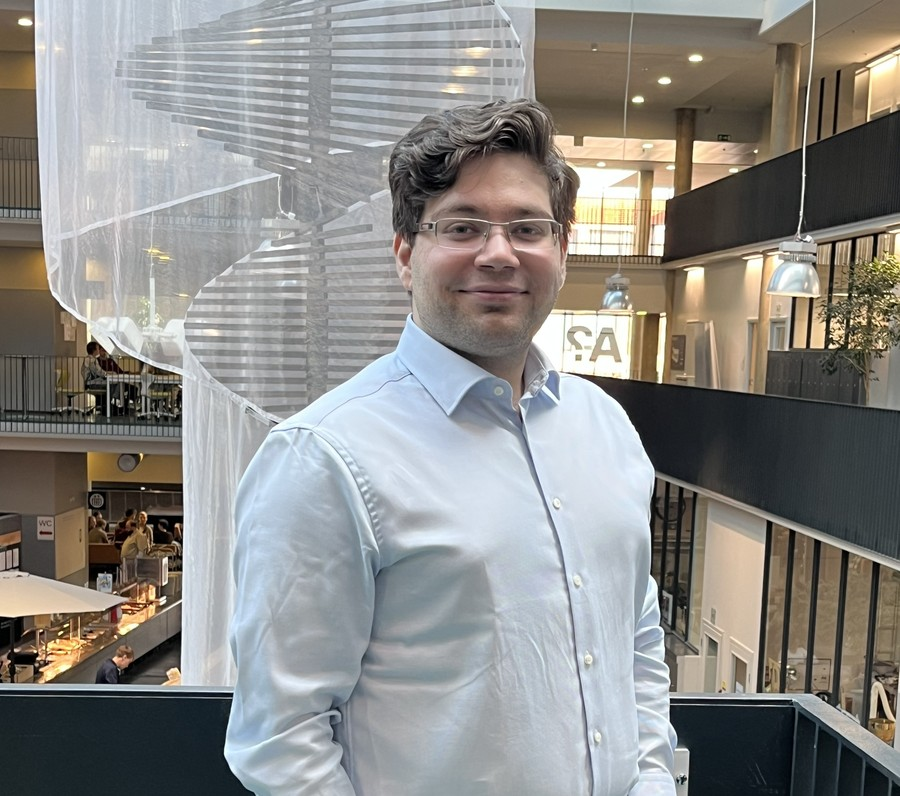
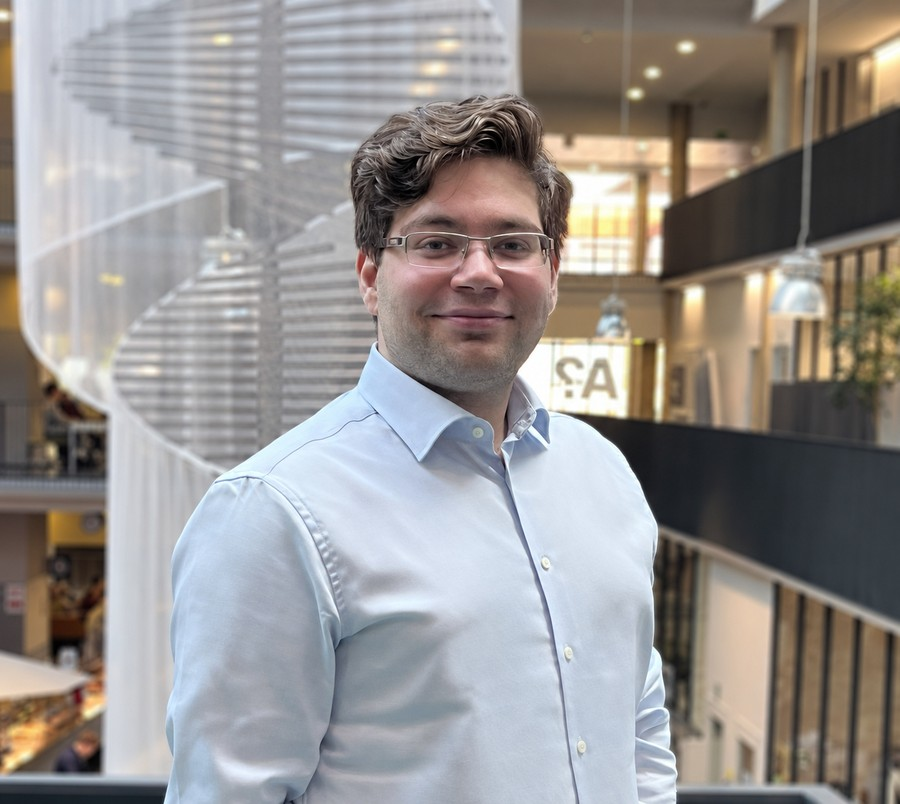
updated website photo

diff --git a/index.html b/index.html
@@ -21,7 +21,7 @@
         <p class="contact-row"><span class="contact-label">Email:</span> <span><a href="mailto:hossein.vahidi@aalto.fi">hossein.vahidi@aalto.fi</a></span></p>
       </div>
       <figure class="portrait-figure">
-        <img class="portrait" src="assets/images/profile.jpg" width="900" height="796" decoding="async" alt="Portrait of Hossein Vahidi">
+        <img class="portrait" src="assets/images/profile.jpg" width="900" height="804" decoding="async" alt="Portrait of Hossein Vahidi">
         <figcaption class="portrait-credit">Photo by: <a href="https://sites.google.com/view/avinandan/home">Avinandan Das</a></figcaption>
       </figure>
       <div class="profile-links" aria-label="Academic and professional profiles"><span class="profile-item"><a href="https://www.linkedin.com/in/hnvahidi/"><svg class="profile-logo" data-profile="linkedin" viewBox="0 0 16 16" fill="#0A66C2" aria-hidden="true" focusable="false"><path d="M0 1.146C0 .513.526 0 1.175 0h13.65C15.474 0 16 .513 16 1.146v13.708c0 .633-.526 1.146-1.175 1.146H1.175C.526 16 0 15.487 0 14.854zm4.943 12.248V6.169H2.542v7.225zm-1.2-8.212c.837 0 1.358-.554 1.358-1.248-.015-.709-.52-1.248-1.342-1.248S2.4 3.226 2.4 3.934c0 .694.521 1.248 1.327 1.248zm4.908 8.212V9.359c0-.216.016-.432.08-.586.173-.431.568-.878 1.232-.878.869 0 1.216.662 1.216 1.634v3.865h2.401V9.25c0-2.22-1.184-3.252-2.764-3.252-1.274 0-1.845.7-2.165 1.193v.025h-.016l.016-.025V6.169h-2.4c.03.678 0 7.225 0 7.225z"/></svg><span>LinkedIn</span></a> <span class="profile-separator" aria-hidden="true">·</span></span> <span class="profile-item"><a href="https://scholar.google.com/citations?user=b3YQjyIAAAAJ"><svg class="profile-logo" data-profile="google-scholar" viewBox="0 0 24 24" fill="#4285F4" aria-hidden="true" focusable="false"><path d="M5.242 13.769L0 9.5 12 0l12 9.5-5.242 4.269C17.548 11.249 14.978 9.5 12 9.5c-2.977 0-5.548 1.748-6.758 4.269zM12 10a7 7 0 1 0 0 14 7 7 0 0 0 0-14z"/></svg><span>Google Scholar</span></a> <span class="profile-separator" aria-hidden="true">·</span></span> <span class="profile-item"><a href="https://dblp.org/pid/224/3791-1"><svg class="profile-logo" data-profile="dblp" viewBox="0 0 24 24" fill="#2581C4" aria-hidden="true" focusable="false"><path d="M3.075.002c-.096.013-.154.092-.094.31L4.97 7.73 3.1 8.6s-.56.26-.4.85l2.45 9.159s.16.59.72.33l6.169-2.869 1.3-.61s.52-.24.42-.79l-.01-.06-1.13-4.22-.658-2.45-.672-2.49v-.04s-.16-.59-.84-1L3.5.141s-.265-.16-.425-.139z" fill="#2581C4"/><path d="M18.324 5.03a.724.724 0 0 0-.193.06l-5.602 2.6.862 3.2 1.09 4.08.01.06c.05.47-.411.79-.411.79l-1.88.87.5 1.89.04.1c.07.17.28.6.81.91l6.95 4.269s.68.41.52-.17l-1.981-7.4 1.861-.86s.56-.26.4-.85L18.85 5.42s-.116-.452-.526-.39z" fill="#FFD500"/></svg><span>DBLP</span></a> <span class="profile-separator" aria-hidden="true">·</span></span> <span class="profile-item"><a href="https://arxiv.org/a/vahidi_h_1"><svg class="profile-logo" data-profile="arxiv" viewBox="0 0 24 24" fill="#B31B1B" aria-hidden="true" focusable="false"><path d="M3.8423 0a1.0037 1.0037 0 0 0-.922.6078c-.1536.3687-.0438.6275.2938 1.1113l6.9185 8.3597-1.0223 1.1058a1.0393 1.0393 0 0 0 .003 1.4229l1.2292 1.3135-5.4391 6.4444c-.2803.299-.4538.823-.2971 1.1986a1.0253 1.0253 0 0 0 .9585.635.9133.9133 0 0 0 .6891-.3405l5.783-6.126 7.4902 8.0051a.8527.8527 0 0 0 .6835.2597.9575.9575 0 0 0 .8777-.6138c.1577-.377-.017-.7502-.306-1.1407l-7.0518-8.3418 1.0632-1.13a.9626.9626 0 0 0 .0089-1.3165L4.6336.4639s-.3733-.4535-.768-.463zm0 .272h.0166c.2179.0052.4874.2715.5644.3639l.005.006.0052.0055 10.169 10.9905a.6915.6915 0 0 1-.0072.945l-1.0666 1.133-1.4982-1.7724-8.5994-10.39c-.3286-.472-.352-.6183-.2592-.841a.7307.7307 0 0 1 .6704-.4401Zm14.341 1.5701a.877.877 0 0 0-.6554.2418l-5.6962 6.1584 1.6944 1.8319 5.3089-6.5138c.3251-.4335.479-.6603.3247-1.0292a1.1205 1.1205 0 0 0-.9763-.689zm-7.6557 12.2823 1.3186 1.4135-5.7864 6.1295a.6494.6494 0 0 1-.4959.26.7516.7516 0 0 1-.706-.4669c-.1119-.2682.0359-.6864.2442-.9083l.0051-.0055.0047-.0055z"/></svg><span>arXiv</span></a> <span class="profile-separator" aria-hidden="true">·</span></span> <span class="profile-item"><a href="https://orcid.org/0000-0002-0040-1213"><svg class="profile-logo" data-profile="orcid" viewBox="0 0 24 24" fill="#A6CE39" aria-hidden="true" focusable="false"><path d="M12 0C5.372 0 0 5.372 0 12s5.372 12 12 12 12-5.372 12-12S18.628 0 12 0zM7.369 4.378c.525 0 .947.431.947.947s-.422.947-.947.947a.95.95 0 0 1-.947-.947c0-.525.422-.947.947-.947zm-.722 3.038h1.444v10.041H6.647V7.416zm3.562 0h3.9c3.712 0 5.344 2.653 5.344 5.025 0 2.578-2.016 5.025-5.325 5.025h-3.919V7.416zm1.444 1.303v7.444h2.297c3.272 0 4.022-2.484 4.022-3.722 0-2.016-1.284-3.722-4.097-3.722h-2.222z"/></svg><span>ORCID</span></a> <span class="profile-separator" aria-hidden="true">·</span></span> <span class="profile-item"><a href="https://www.webofscience.com/wos/author/record/REZ-7550-2026"><svg class="profile-logo" data-profile="web-of-science" viewBox="0 0 320 512" fill="#000000" aria-hidden="true" focusable="false"><path d="M 18.560221,447.99914 V 64 H 152.41616 c 34.22381,0 58.6717,3.455812 73.34367,10.352093 14.67196,6.896322 26.71982,18.864102 36.144,35.888077 9.42419,17.02394 14.14393,37.40792 14.14393,61.16806 0,30.03214 -7.19994,54.22408 -21.616,72.55967 -14.41603,18.33559 -34.88004,29.85582 -61.42399,34.57601 13.61584,9.7759 24.88013,20.47974 33.792,32.08006 8.91187,11.61601 21.03978,32.4318 36.41613,62.47968 l 38.22388,74.8959 h -75.84009 l -45.98377,-83.5518 c -16.55978,-30.20801 -27.8079,-49.1198 -33.74388,-56.70385 -5.93598,-7.58406 -12.22417,-12.83184 -18.86409,-15.71191 -6.63993,-2.88006 -17.2799,-4.31987 -31.951873,-4.31987 H 81.93591 V 448 H 18.560221 Z M 81.93591,226.39968 h 47.15191 c 28.81588,0 47.15191,-1.26393 55.00808,-3.79179 7.85618,-2.52789 14.22398,-7.6322 19.12003,-15.32779 4.89606,-7.67988 7.3281,-17.90378 7.3281,-30.63983 0,-12.22416 -2.4478,-22.04778 -7.3281,-29.47212 -4.8803,-7.42437 -11.51978,-12.52777 -19.90402,-15.32779 -5.93599,-1.92017 -23.13584,-2.88006 -51.59997,-2.88006 H 81.93591 v 97.43983 z"/></svg><span>ResearcherID</span></a> <span class="profile-separator" aria-hidden="true">·</span></span> <span class="profile-item"><a href="https://github.com/HnVahidi"><svg class="profile-logo" data-profile="github" viewBox="0 0 24 24" fill="#181717" aria-hidden="true" focusable="false"><path d="M12 .297c-6.63 0-12 5.373-12 12 0 5.303 3.438 9.8 8.205 11.385.6.113.82-.258.82-.577 0-.285-.01-1.04-.015-2.04-3.338.724-4.042-1.61-4.042-1.61C4.422 18.07 3.633 17.7 3.633 17.7c-1.087-.744.084-.729.084-.729 1.205.084 1.838 1.236 1.838 1.236 1.07 1.835 2.809 1.305 3.495.998.108-.776.417-1.305.76-1.605-2.665-.3-5.466-1.332-5.466-5.93 0-1.31.465-2.38 1.235-3.22-.135-.303-.54-1.523.105-3.176 0 0 1.005-.322 3.3 1.23.96-.267 1.98-.399 3-.405 1.02.006 2.04.138 3 .405 2.28-1.552 3.285-1.23 3.285-1.23.645 1.653.24 2.873.12 3.176.765.84 1.23 1.91 1.23 3.22 0 4.61-2.805 5.625-5.475 5.92.42.36.81 1.096.81 2.22 0 1.606-.015 2.896-.015 3.286 0 .315.21.69.825.57C20.565 22.092 24 17.592 24 12.297c0-6.627-5.373-12-12-12"/></svg><span>GitHub</span></a></span></div>
